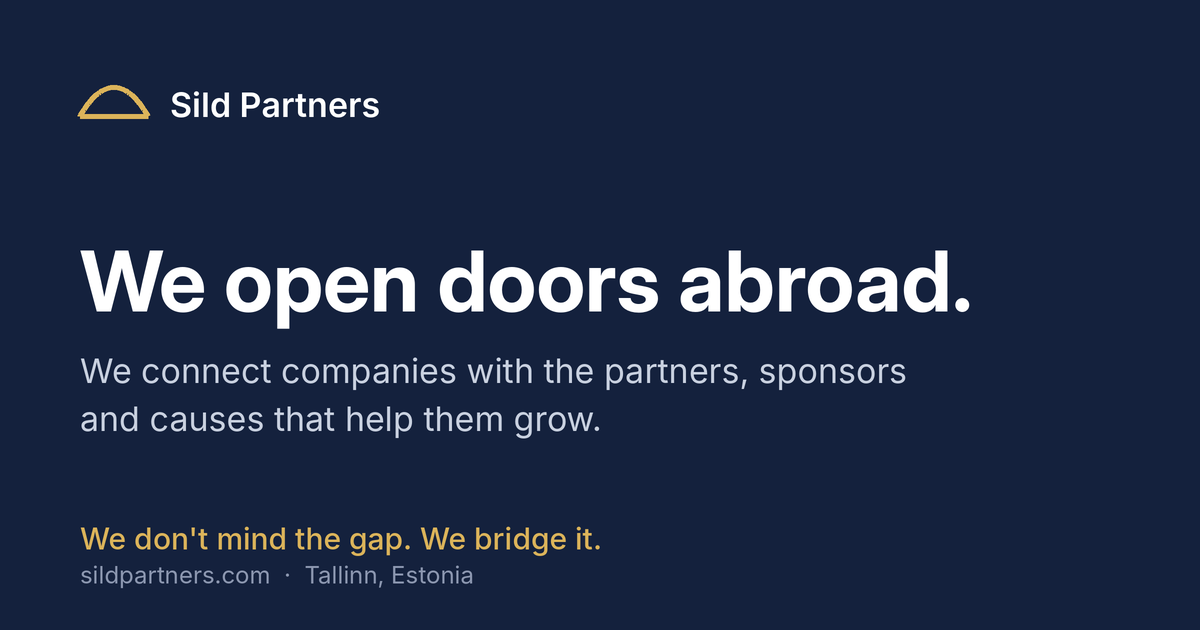
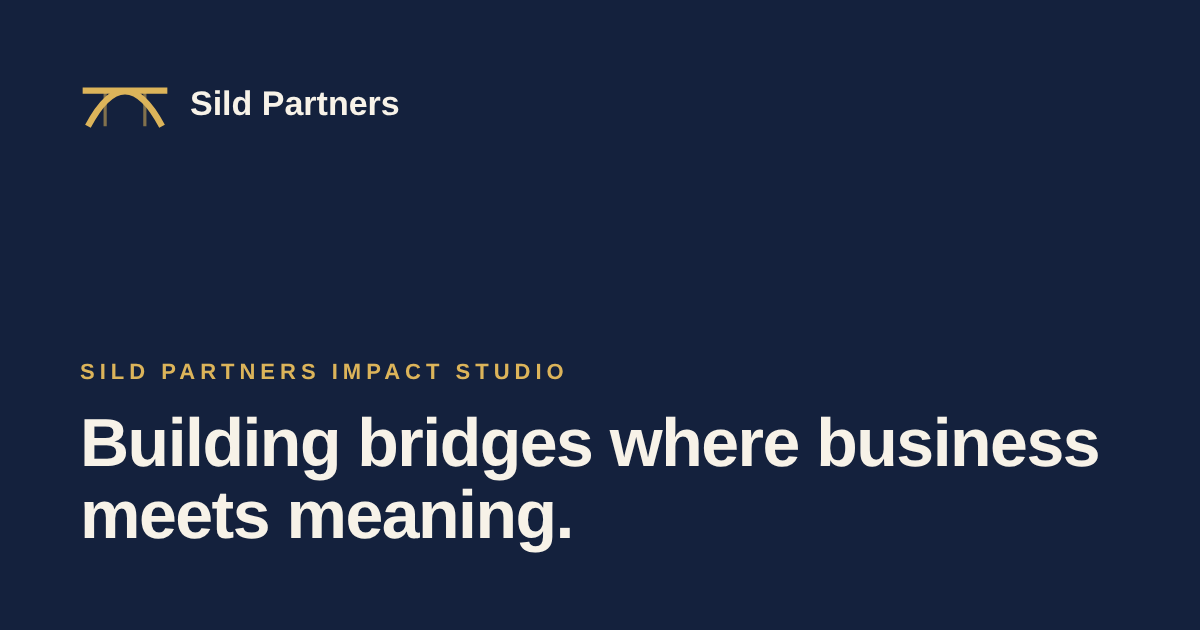
Reposition site as Sild Partners Impact Studio with new bridge mark (#29)
Claude-Session: https://claude.ai/code/session_01Bok4WHciBjE4pjAzjgRu2q

Changed region(s): [[0.0617, 0.573, 0.925, 0.9349], [0.0617, 0.3921, 0.8017, 0.5429], [0.0617, 0.1206, 0.3392, 0.2111]]

diff --git a/index.html b/index.html
@@ -3,20 +3,20 @@
 <head>
 <meta charset="utf-8">
 <meta name="viewport" content="width=device-width, initial-scale=1, viewport-fit=cover">
-<title>Sild Partners · Sponsorship, partnership and export outreach</title>
-<meta name="description" content="Sild Partners connects companies with the partners, sponsors and buyers abroad that help them grow. Sponsorship, partnership and export outreach from Tallinn, Estonia.">
+<title>Sild Partners · Building bridges where business meets meaning</title>
+<meta name="description" content="Sild Partners is an impact studio from Tallinn. We help festivals, events and good causes find the right sponsors, help companies give back with meaning, and find partners abroad for brands with a why.">
 <link rel="canonical" href="https://sildpartners.com/">
 <link rel="icon" href="/assets/favicon.svg" type="image/svg+xml">
 <meta name="theme-color" content="#14213D">
 <meta property="og:type" content="website">
 <meta property="og:site_name" content="Sild Partners">
 <meta property="og:url" content="https://sildpartners.com/">
-<meta property="og:title" content="Sild Partners · We open doors abroad">
-<meta property="og:description" content="Sild Partners connects companies with the partners, sponsors and buyers abroad that help them grow. Sponsorship, partnership and export outreach from Tallinn, Estonia.">
+<meta property="og:title" content="Sild Partners · Building bridges where business meets meaning">
+<meta property="og:description" content="Sild Partners is an impact studio from Tallinn. We help festivals, events and good causes find the right sponsors, help companies give back with meaning, and find partners abroad for brands with a why.">
 <meta property="og:image" content="https://sildpartners.com/assets/og-image.png">
 <meta property="og:image:width" content="1200">
 <meta property="og:image:height" content="630">
-<meta property="og:image:alt" content="Sild Partners: We open doors abroad.">
+<meta property="og:image:alt" content="Sild Partners: Building bridges where business meets meaning.">
 <meta property="og:locale" content="en_GB">
 <meta name="twitter:card" content="summary_large_image">
 <script type="application/ld+json">
@@ -28,7 +28,7 @@
   "url": "https://sildpartners.com/",
   "logo": "https://sildpartners.com/assets/favicon.svg",
   "image": "https://sildpartners.com/assets/og-image.png",
-  "description": "Sild Partners connects companies with the partners, sponsors and buyers abroad that help them grow. Sponsorship, partnership and export outreach from Tallinn, Estonia.",
+  "description": "Sild Partners is an impact studio from Tallinn. We help festivals, events and good causes find the right sponsors, help companies give back with meaning, and find partners abroad for brands with a why.",
   "email": "maria@sildpartners.com",
   "address": {
     "@type": "PostalAddress",
@@ -229,7 +229,7 @@ footer a { color: inherit; text-decoration: underline; text-underline-offset: 2p
 
 <nav>
   <a class="logo" href="#top" aria-label="Sild Partners">
-    <svg viewBox="0 0 34 18" aria-hidden="true"><path d="M1 17 Q17 -5 33 17" fill="none" stroke="currentColor" stroke-width="2.6"/><path d="M1 17 H33" stroke="currentColor" stroke-width="2.6"/></svg>
+    <svg viewBox="0 0 34 18" aria-hidden="true"><path d="M1 4 H33" stroke="currentColor" stroke-width="2.4"/><path d="M3 17.5 Q17 -9 31 17.5" fill="none" stroke="currentColor" stroke-width="2.4"/><path d="M9.5 4 V17.5 M24.5 4 V17.5" stroke="currentColor" stroke-width="1.2" opacity=".55"/></svg>
     Sild Partners
   </a>
   <div class="nav-right">
@@ -244,13 +244,13 @@ footer a { color: inherit; text-decoration: underline; text-underline-offset: 2p
 
 <header class="hero" id="top">
   <div class="hero-content">
-    <div class="eyebrow">Partnerships • Sponsorship • Impact</div>
-    <h1>We open doors <span class="highlight">abroad.</span></h1>
-    <div class="tagline">We connect companies with the partners, sponsors and causes that help them grow.</div>
-    <p class="intro">Sild Partners researches the right organisations in other countries, starts the conversation for you, and hands you calls with people who actually want to talk.</p>
+    <div class="eyebrow">Sild Partners Impact Studio</div>
+    <h1>Building bridges where business <span class="highlight">meets meaning.</span></h1>
+    <div class="tagline">We help culture and good causes get funded, and help companies give with meaning.</div>
+    <p class="intro">Sild Partners is an impact studio from Tallinn. We design sponsorship that brands want to buy, find the right partners for festivals, events and causes, and build giving-back programmes companies are proud of.</p>
     <div class="hero-ctas">
       <a class="pill-btn" href="#contact">Book a 20-minute intro →</a>
-      <a class="pill-btn ghost" href="#results">See the results</a>
+      <a class="pill-btn ghost" href="#services">See how it works</a>
     </div>
     <div class="stats">
       <div class="stat"><div class="stat-number">237</div><div class="stat-label">Organisations contacted in one campaign</div></div>
@@ -264,35 +264,18 @@ footer a { color: inherit; text-decoration: underline; text-underline-offset: 2p
 
 <section id="services">
   <div class="section-label">01 — What we do</div>
-  <h2>Three ways<br>across the bridge.</h2>
+  <h2>One bridge,<br>two sides.</h2>
+  <h3 class="services-sub">For festivals, events &amp; causes</h3>
   <div class="services">
+    <div class="service">
+      <span class="tag">Events &amp; causes</span>
+      <h3>Sponsor package design</h3>
+      <p>Sponsor tiers, add-ons and a sponsor deck that make it easy for brands to say yes. Also as giving-back partnership levels for causes.</p>
+    </div>
     <div class="service">
       <span class="tag">Events &amp; conferences</span>
-      <h3>Sponsor &amp; exhibitor outreach</h3>
-      <p>We find companies, agencies and institutions abroad that fit your audience, and get them talking about booths, sponsorship and delegations.</p>
-    </div>
-    <div class="service">
-      <span class="tag">Producers</span>
-      <h3>Export partner search</h3>
-      <p>For Estonian producers going abroad. We find distributors, importers and buyers in your target market and set up first calls with the interested ones.</p>
-    </div>
-    <div class="service">
-      <span class="tag">Organisations</span>
-      <h3>Partnership introductions</h3>
-      <p>Need a specific partner, like an investor network, a university or a trade body? We find the right person and make a warm introduction.</p>
-    </div>
-  </div>
-  <h3 class="services-sub">Beyond outreach</h3>
-  <div class="services">
-    <div class="service">
-      <span class="tag">Events &amp; organisations</span>
-      <h3>Sponsor package design</h3>
-      <p>Sponsor tiers, add-ons and a sponsor deck that make it easy for brands to say yes. Also as giving-back partnership levels for causes and companies.</p>
-    </div>
-    <div class="service">
-      <span class="tag">Companies</span>
-      <h3>Giving-back strategy</h3>
-      <p>Where, why and how your company should give back. We pick causes that fit your brand, find the right partners and set up a plan your team will actually use.</p>
+      <h3>Sponsor &amp; partner outreach</h3>
+      <p>We find companies, agencies and institutions at home and abroad that fit your audience, and get them talking about sponsorship, partnerships and booths.</p>
     </div>
     <div class="service">
       <span class="tag">Events &amp; conferences</span>
@@ -300,7 +283,31 @@ footer a { color: inherit; text-decoration: underline; text-underline-offset: 2p
       <p>A social impact programme for your event, with content, partners and a format that gives sponsors something meaningful to support.</p>
     </div>
   </div>
+  <h3 class="services-sub">For companies</h3>
   <div class="services">
+    <div class="service">
+      <span class="tag">Companies</span>
+      <h3>Giving-back strategy</h3>
+      <p>Where, why and how your company should give back. We turn scattered sponsorships into one clear programme with causes that fit your brand and a plan your team will actually use.</p>
+    </div>
+    <div class="service">
+      <span class="tag">Companies</span>
+      <h3>Cause &amp; culture partnerships</h3>
+      <p>We match your company with a vetted local cause, festival or event whose story fits yours, and design how you show up together.</p>
+    </div>
+    <div class="service">
+      <span class="tag">Organisations</span>
+      <h3>Partnership introductions</h3>
+      <p>Need a specific partner, like an investor network, a university or a trade body? We find the right person and make a warm introduction.</p>
+    </div>
+  </div>
+  <h3 class="services-sub">Also: for brands with a why</h3>
+  <div class="services">
+    <div class="service">
+      <span class="tag">Producers</span>
+      <h3>Export partner search</h3>
+      <p>For Estonian producers going abroad. We find distributors, importers and buyers in your target market and set up first calls with the interested ones.</p>
+    </div>
     <div class="service">
       <span class="tag">Companies</span>
       <h3>Investor &amp; partner pack</h3>
@@ -333,9 +340,9 @@ footer a { color: inherit; text-decoration: underline; text-underline-offset: 2p
     <li><span class="n">01</span><div><h3>Brief</h3><p>Week 1. A 30-minute call about who you want to meet, in which countries, and what you can offer them.</p></div></li>
     <li><span class="n">02</span><div><h3>Target list</h3><p>Week 1. We build a researched list of organisations and named contacts. You approve it before anything is sent.</p></div></li>
     <li><span class="n">03</span><div><h3>Outreach</h3><p>Weeks 2 to 4. Personal messages in English or Estonian, with follow-ups. Every reply is handled within a day.</p></div></li>
-    <li><span class="n">04</span><div><h3>Meetings</h3><p>Usually weeks 3 to 8. Busy buyers take time to answer, so we keep following up after the outreach weeks. Interested contacts land in your calendar with a short note on who they are and what they want.</p></div></li>
+    <li><span class="n">04</span><div><h3>Meetings</h3><p>Usually weeks 3 to 8. Busy decision-makers take time to answer, so we keep following up after the outreach weeks. Interested contacts land in your calendar with a short note on who they are and what they want.</p></div></li>
   </ol>
-  <div class="pricing"><strong>Pricing:</strong> start with a 4-week Pilot Sprint, where part of the fee is paid only once your first meeting happens. Then, if it works, a monthly retainer plus a fee per qualified meeting. For events and expos: a one-off fixed fee plus a share of the sponsorship we actually bring in.</div>
+  <div class="pricing"><strong>Pricing:</strong> for events and causes, a fixed fee to design your sponsor package, and a one-off fee plus a share of the sponsorship we actually bring in. For companies, a fixed-price giving-back sprint. For export, a 4-week Pilot Sprint where part of the fee is paid only once your first meeting happens.</div>
 </section>
 
 <section id="about" class="about">
@@ -400,14 +407,14 @@ footer a { color: inherit; text-decoration: underline; text-underline-offset: 2p
 <section class="statement">
   <div class="section-label">Why Sild</div>
   <div class="statement-quote">We don't mind the gap.<br><span>We bridge it.</span></div>
-  <p>Sild means bridge in Estonian. That's the job: connect organisations that should be working together, and make the first conversation easy.</p>
+  <p>Sild means bridge in Estonian. That's the job: connect business with the culture and causes it should be working with, and make the first conversation easy.</p>
 </section>
 
 <div class="cta-wrap" id="contact">
   <div class="cta">
     <div class="section-label" style="color:var(--navy)">06 — Let's talk</div>
     <h2>Who do you<br>want to meet?</h2>
-    <p>Tell me which countries and what kind of partners. I'll tell you honestly whether I can reach them.</p>
+    <p>Tell me about your event, your cause or the kind of partner you're looking for. I'll tell you honestly whether I can help.</p>
     <div class="buttons">
       <a class="pill-btn" href="mailto:maria@sildpartners.com">maria@sildpartners.com →</a>
       <a class="pill-btn" href="tel:+37258262802">+372 5826 2802 →</a>
